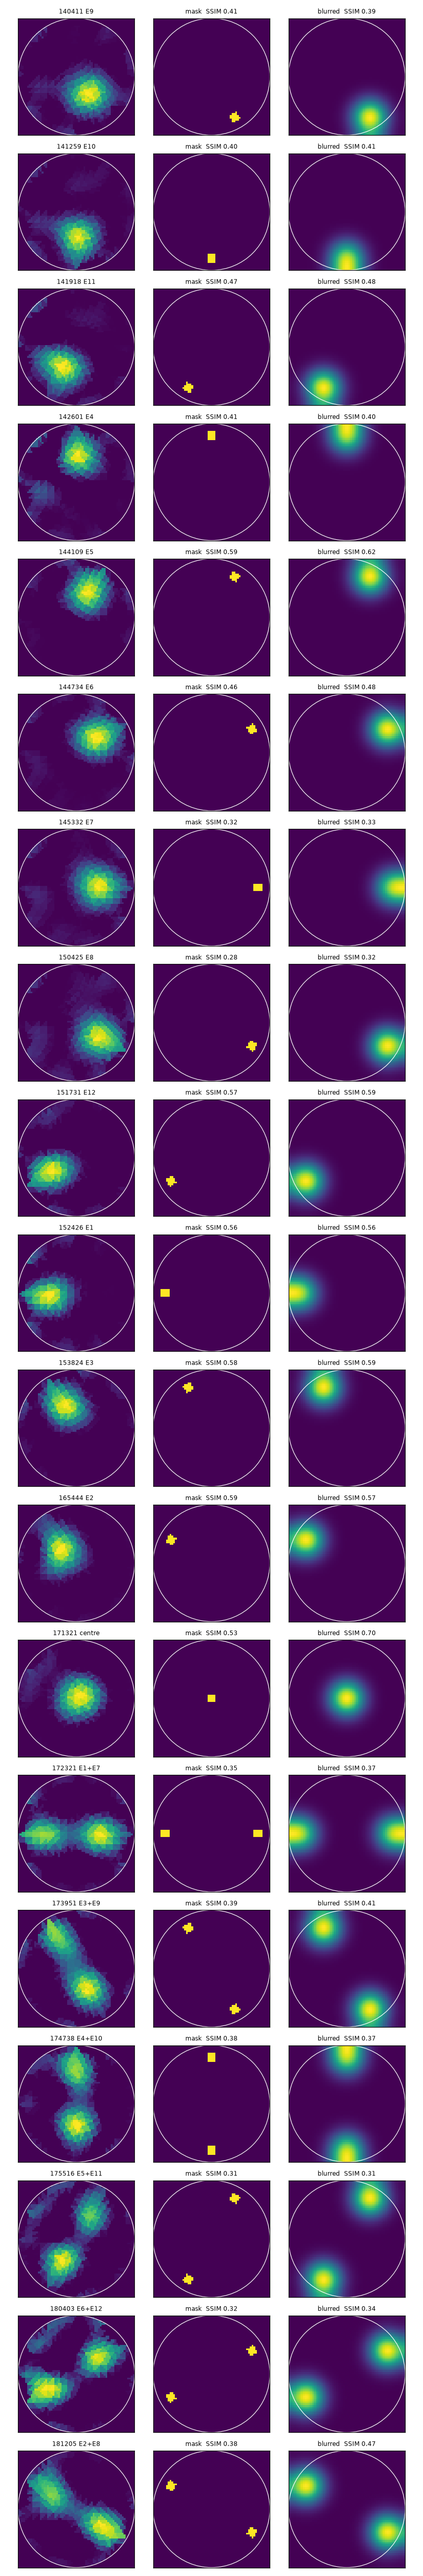
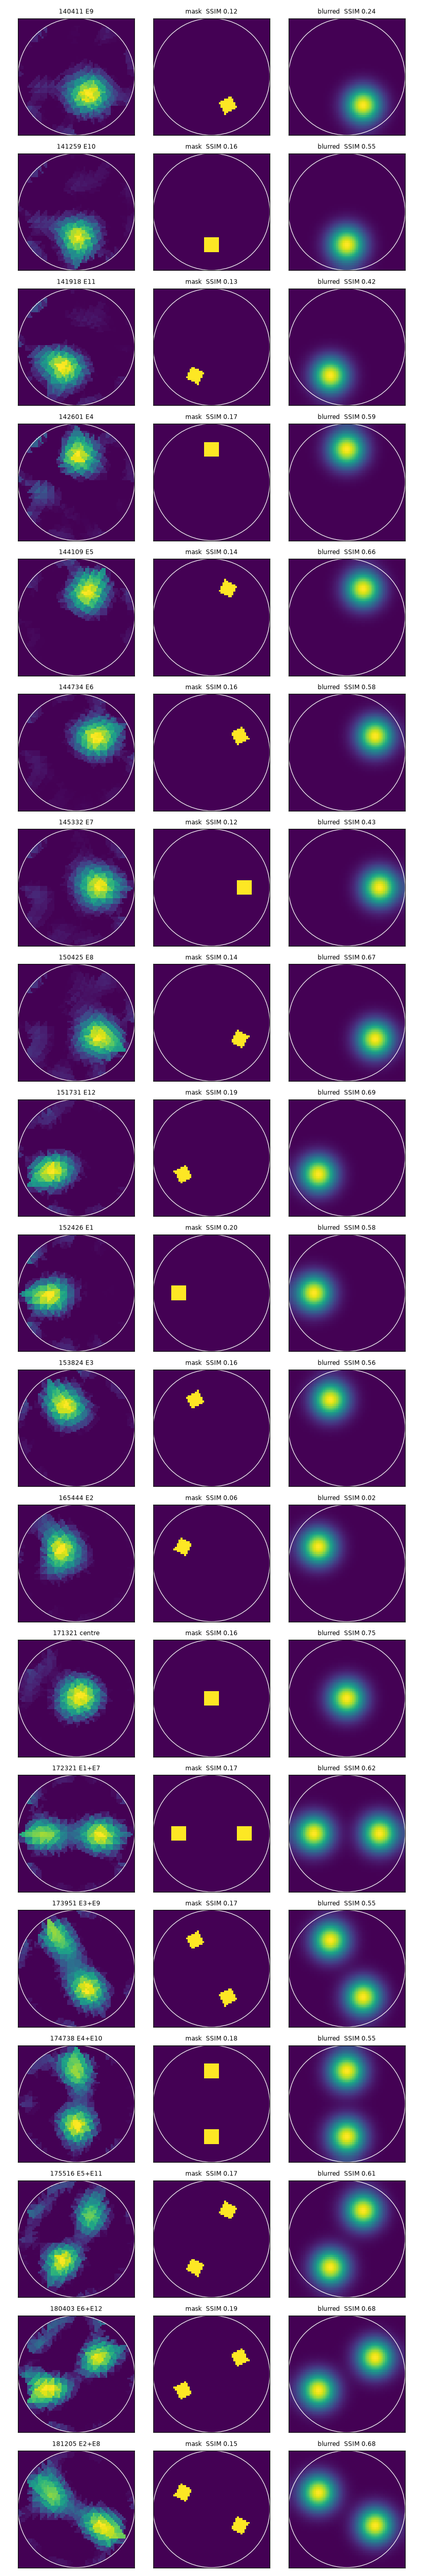
fix: ssim_eval drops the electrode mapping and emitted only retired columns
Audit found the shipped ssim_results.csv contradicted every number in the docs: it
carried true_radius 0.80 (masks at the wrong radius, ADR-0052), SSIM values from the
pre-region-fix metric, and angle errors read off the strongest single pixel. And the tool
that generates it would have reproduced all three, because it still only knew about those
columns.

Two real bugs, not just missing features:

1. evaluate() built UiSettings(pattern=...) alone, silently discarding electrode_offset
   and electrode_reversed. Every radius and angle would then be computed against masks
   for a ring that was not the one measured. Harmless for this series, which is entirely
   offset 0 / not reversed, and wrong for any run that is not. Now rebuilt from the
   recorded settings.

2. The summary read r["ssim_raw"], which no longer exists among the emitted columns.

New columns: angular localization error from the lobe centroid, the single-pixel estimate
kept beside it, the disagreement between the two per run, NCC and Dice each with the run's
own empty-tank control and margin, centroid radius, and whether a photograph exists.
The template is built by verify_device.physics_template rather than a second copy.

ssim_results.csv regenerated. It now reports true_radius 0.56 and agrees exactly with
verify_device.py: median angle 3.85, max 11.90, 17 of 18 within 10 deg, NCC and Dice
19/19 against their controls.

Docs: corrected a stale max in ADR-0053. The series README now states both
[…]

diff --git a/ssim_eval.py b/ssim_eval.py
@@ -16,6 +16,7 @@ series directory.
 from __future__ import annotations
 
 import argparse
+import dataclasses
 import csv
 import json
 import re
@@ -29,11 +30,20 @@ import phase3a_unified_reconstruct as unified
 from tree_ert import ssim
 from tree_ert.reconstruction import reconstruct, require_compatible
 from tree_ert.settings import UiSettings
+from verify_device import physics_template
 from tree_ert.survey import load_frames
 
 RESULT_COLUMNS = [
-    "run_id", "baseline_run", "target", "blocks", "ssim_raw", "ssim_blurred",
-    "max_abs_angle_error_deg", "angle_errors_deg", "peak_radius", "true_radius",
+    "run_id", "baseline_run", "target", "blocks",
+    # angular localization error: the centroid of the lobe, not the strongest pixel
+    "max_abs_centroid_error_deg", "centroid_errors_deg",
+    # per-run max of the single-pixel estimate, kept so the two can be compared
+    "max_abs_angle_error_deg", "angle_errors_deg", "angle_estimator_spread_deg",
+    # reproducibility against a template simulated through this solver, with the
+    # run's own empty-tank control beside every detection (ADR-0050, ADR-0053)
+    "ncc", "ncc_control", "ncc_margin",
+    "dice", "dice_control", "dice_margin",
+    "peak_radius", "true_radius", "photo_present",
 ]
 
 
@@ -75,11 +85,51 @@ def evaluate(run_dir: Path, baseline_dir: Path, psf_sigma: float):
     require_compatible(base_run["settings"], run["settings"])
     target = run["conditions"].get("target_description") or run["conditions"].get("tank_contents") or ""
     labels = ssim.parse_target(target)
-    settings = UiSettings(pattern=run["settings"]["pattern"])
+    settings = _recorded_settings(run["settings"])
     result = reconstruct(load_frames(baseline_dir), load_frames(run_dir), settings)
     protocol, _ = unified.protocol_and_command(settings.pattern)
-    eit_mesh, _ = base.create_solver(protocol)
-    return target, labels, ssim.score(result.values, eit_mesh, labels, psf_sigma), result, eit_mesh
+    eit_mesh, solver = base.create_solver(protocol)
+    blocks = ssim.blocks_for(labels, eit_mesh)
+    template = physics_template(blocks, eit_mesh, solver)
+    score = ssim.score(result.values, eit_mesh, labels, psf_sigma, template=template)
+    control = _control_score(run_dir, eit_mesh, labels, psf_sigma, template)
+    return target, labels, score, control, result, eit_mesh
+
+
+def _recorded_settings(recorded: dict) -> UiSettings:
+    """Rebuild the capture settings from the record, mapping included.
+
+    Building UiSettings from the pattern alone silently discards the electrode
+    mapping, and every radius and angle would then be computed against masks for a ring
+    that was not the one measured. Harmless for the 2026-10-02 series, which is all
+    offset 0 / not reversed, but wrong for any run that is not.
+    """
+    fields = {f.name for f in dataclasses.fields(UiSettings)}
+    return UiSettings(**{k: v for k, v in recorded.items() if k in fields})
+
+
+def _control_score(run_dir, eit_mesh, labels, psf_sigma, template):
+    """The run's own empty-tank control, scored exactly as the detection is."""
+    npz = run_dir / "reconstruction.npz"
+    if not npz.is_file():
+        return None
+    with np.load(npz, allow_pickle=True) as handle:
+        if "control_values" not in handle.files:
+            return None
+        control = handle["control_values"]
+    return ssim.score(control, eit_mesh, labels, psf_sigma, template=template)
+
+
+def angle_spread(score) -> float | None:
+    """How far the two angle estimators disagree, worst block.
+
+    A large gap means the strongest pixel is not the block -- the lobe centroid and the
+    argmax are measuring different things (ADR-0055).
+    """
+    gaps = [abs(abs(b.centroid_angle_error_deg) - abs(b.angle_error_deg))
+            for b in score.blocks
+            if b.centroid_angle_error_deg is not None and b.angle_error_deg is not None]
+    return max(gaps) if gaps else None
 
 
 def _fmt(value: float | None, digits: int = 3) -> str:
@@ -131,28 +181,42 @@ def main(argv: list[str] | None = None) -> int:
             print(f"{run_id}: no baseline named in reconstruction.txt, skipped", file=sys.stderr)
             continue
         try:
-            target, labels, score, result, eit_mesh = evaluate(
+            target, labels, score, control, result, eit_mesh = evaluate(
                 run_dir, find_run(baseline_id, args.series, args.scans_runs), args.psf_sigma
             )
         except Exception as error:  # one bad run must not lose the rest of the series
             print(f"{run_id}: {error}", file=sys.stderr)
             continue
         errors = [b.angle_error_deg for b in score.blocks if b.angle_error_deg is not None]
+        centroid_errors = [b.centroid_angle_error_deg for b in score.blocks
+                           if b.centroid_angle_error_deg is not None]
+        photo = "yes" if (args.series / "photos" / f"{run_id}.jpg").is_file() else ""
         rows.append({
             "run_id": run_id,
             "baseline_run": baseline_id,
             "target": target,
             "blocks": "+".join(labels),
-            "ssim_raw": _fmt(score.ssim_raw),
-            "ssim_blurred": _fmt(score.ssim_blurred),
+            "max_abs_centroid_error_deg": _fmt(score.max_abs_centroid_angle_error, 1),
+            "centroid_errors_deg": " ".join(f"{e:+.1f}" for e in centroid_errors),
             "max_abs_angle_error_deg": _fmt(score.max_abs_angle_error, 1),
             "angle_errors_deg": " ".join(f"{e:+.1f}" for e in errors),
-            "peak_radius": " ".join(f"{b.peak_radius:.2f}" for b in score.blocks),
+            "angle_estimator_spread_deg": _fmt(angle_spread(score), 1),
+            "ncc": _fmt(score.ncc),
+            "ncc_control": _fmt(control.ncc) if control else "",
+            "ncc_margin": _fmt(score.ncc - control.ncc) if control else "",
+            "dice": _fmt(score.dice),
+            "dice_control": _fmt(control.dice) if control else "",
+            "dice_margin": _fmt(score.dice - control.dice) if control else "",
+            "peak_radius": " ".join(f"{b.centroid_radius:.2f}" if b.centroid_radius is not None
+                                    else "" for b in score.blocks),
             "true_radius": " ".join(f"{b.true_radius:.2f}" for b in score.blocks),
+            "photo_present": photo,
         })
         entries.append((run_id, labels, score, result, eit_mesh))
-        print(f"{run_id}  {'+'.join(labels):<10} raw {score.ssim_raw:.3f}  blurred {score.ssim_blurred:.3f}  "
-              f"angle {rows[-1]['angle_errors_deg'] or '-'}")
+        print(f"{run_id}  {'+'.join(labels):<10} "
+              f"angLoc {rows[-1]['max_abs_centroid_error_deg'] or '-':>5}  "
+              f"NCC {score.ncc:.3f} (ctrl {_fmt(control.ncc) if control else '-'})  "
+              f"Dice {score.dice:.3f} (ctrl {_fmt(control.dice) if control else '-'})")
 
     out = args.series / "ssim_results.csv"
     with out.open("w", newline="", encoding="utf-8") as handle:
@@ -161,9 +225,21 @@ def main(argv: list[str] | None = None) -> int:
         writer.writerows(rows)
     contact_sheet(entries, args.series / "ssim_contact_sheet.png")
     if rows:
-        raw = np.array([float(r["ssim_raw"]) for r in rows])
-        blurred = np.array([float(r["ssim_blurred"]) for r in rows])
-        print(f"\n{len(rows)} runs  SSIM raw mean {raw.mean():.3f}  blurred mean {blurred.mean():.3f}")
+        ang = np.array([float(r["max_abs_centroid_error_deg"]) for r in rows if r["max_abs_centroid_error_deg"]])
+        ncc = np.array([float(r["ncc"]) for r in rows if r["ncc"]])
+        marg = np.array([float(r["ncc_margin"]) for r in rows if r["ncc_margin"]])
+        dmarg = np.array([float(r["dice_margin"]) for r in rows if r["dice_margin"]])
+        print(f"\n{len(rows)} runs")
+        if ang.size:
+            within = int((ang <= 10).sum())
+            print(f"  angular localization error   median {np.median(ang):.2f} deg, "
+                  f"max {ang.max():.2f} deg, within 10 deg {within}/{ang.size}")
+        if marg.size:
+            print(f"  NCC beats its empty tank     {int((marg > 0).sum())}/{marg.size}, "
+                  f"median margin {np.median(marg):.3f}")
+        if dmarg.size:
+            print(f"  Dice beats its empty tank    {int((dmarg > 0).sum())}/{dmarg.size}, "
+                  f"median margin {np.median(dmarg):.3f}")
     print(f"wrote {out}")
     return 0
 

diff --git a/ssim/saline-tank-2026-10-02/README.md b/ssim/saline-tank-2026-10-02/README.md
@@ -199,17 +199,28 @@ independent evidence for localisation is the angle error against the photographs
 `ssim_results.csv` is **wrong**, not merely stale — it was scored against masks at the
 wrong radius and size, and must be regenerated.
 
-The angle result (ADR-0055): n = 24 angled block placements, **median 3.07 deg, mean
-3.71 deg, max 11.87 deg, 18 of 24 within 5 deg and 23 of 24 within 10 deg**. The lobe
-centroid is thresholded, not windowed: the angular window it replaced was worth up to
-12.3 deg on a single placement, and the earlier "24 of 24 within 10 deg" was an
-artefact of that choice. The one placement outside 10 deg is run 165444 at E2, 11.9 deg
-- the drift-affected run. See photos/README.md for why that run is suspect.
+The angle result (ADR-0055), **all 24 block placements**: median 3.07 deg, mean 3.71,
+max 11.87 deg, 18 of 24 within 5 deg and 23 of 24 within 10 deg. The lobe centroid is
+thresholded, not windowed: the angular window it replaced was worth up to 12.3 deg on a
+single placement, and the earlier "24 of 24 within 10 deg" was an artefact of that choice.
+The one placement outside 10 deg is run 165444 at E2, 11.9 deg - the drift-affected run.
+See `photos/README.md` for why that run is suspect.
+
+**Two aggregations, both correct, and the difference is the exclusion.** The figure above
+counts every placement. The thesis text (`docs/thesis-fidelity-metrics.md`) reports the 22
+placements that have photographic ground truth — median 3.4 deg, 21 of 22 within 10 deg —
+because one scan's recorded sector was reconstructed from its own reconstruction and cannot
+be scored against itself. Both numbers appear; neither is the whole story.
 
 NCC 0.72 mean against a 0.03 control, with 19 of 19 runs clearing it (ADR-0053).
 
-Full table: `ssim_results.csv` (**needs regenerating**). Images beside their masks:
-`ssim_contact_sheet.png` (**also stale** — same masks).
+Full table: `ssim_results.csv`, regenerated. It carries the centroid and single-pixel
+angles, both angle-estimator spreads, and NCC and Dice **with their own empty-tank
+controls and margins** per run. Images beside their masks: `ssim_contact_sheet.png`.
+
+`photos/SSIM-REFERENCE.csv` and `photos/PHOTO-INDEX.csv` were written against the
+pre-fix whole-disc SSIM and no longer describe any metric the tool computes. Treat them as
+historical; `ssim_results.csv` supersedes both.
 
 Angle errors come from the pixel-grid wedge search. They differ by a few degrees from
 the UI's peak angle quoted in the single-block table above.

diff --git a/docs/adr/0053-ncc-and-dice-are-the-primary-scores.md b/docs/adr/0053-ncc-and-dice-are-the-primary-scores.md
@@ -78,8 +78,9 @@ its own.
   not absolute localisation.** The template inherits the reconstruction's own behaviour,
   so a systematic bias in the pipeline would move both together and cancel. This is a
   property of validating a pipeline against itself, and it is why the *independent*
-  evidence — angle error against photographs, median 3.4°, max 9.9° — is the localisation
-  claim, and NCC is the reproducibility figure beside it.
+  evidence — the angular localization error against photographs, median 3.4°, max 11.9°
+  (ADR-0055) — is the localisation claim, and NCC is the reproducibility figure beside
+  it.
 - A reader who asks "what does an empty tank score?" gets an answer on the same line as
   every detection. That is the whole reason this ADR exists.
 - `ssim_eval.py` does not emit NCC or Dice yet, so `ssim_results.csv` does not carry
